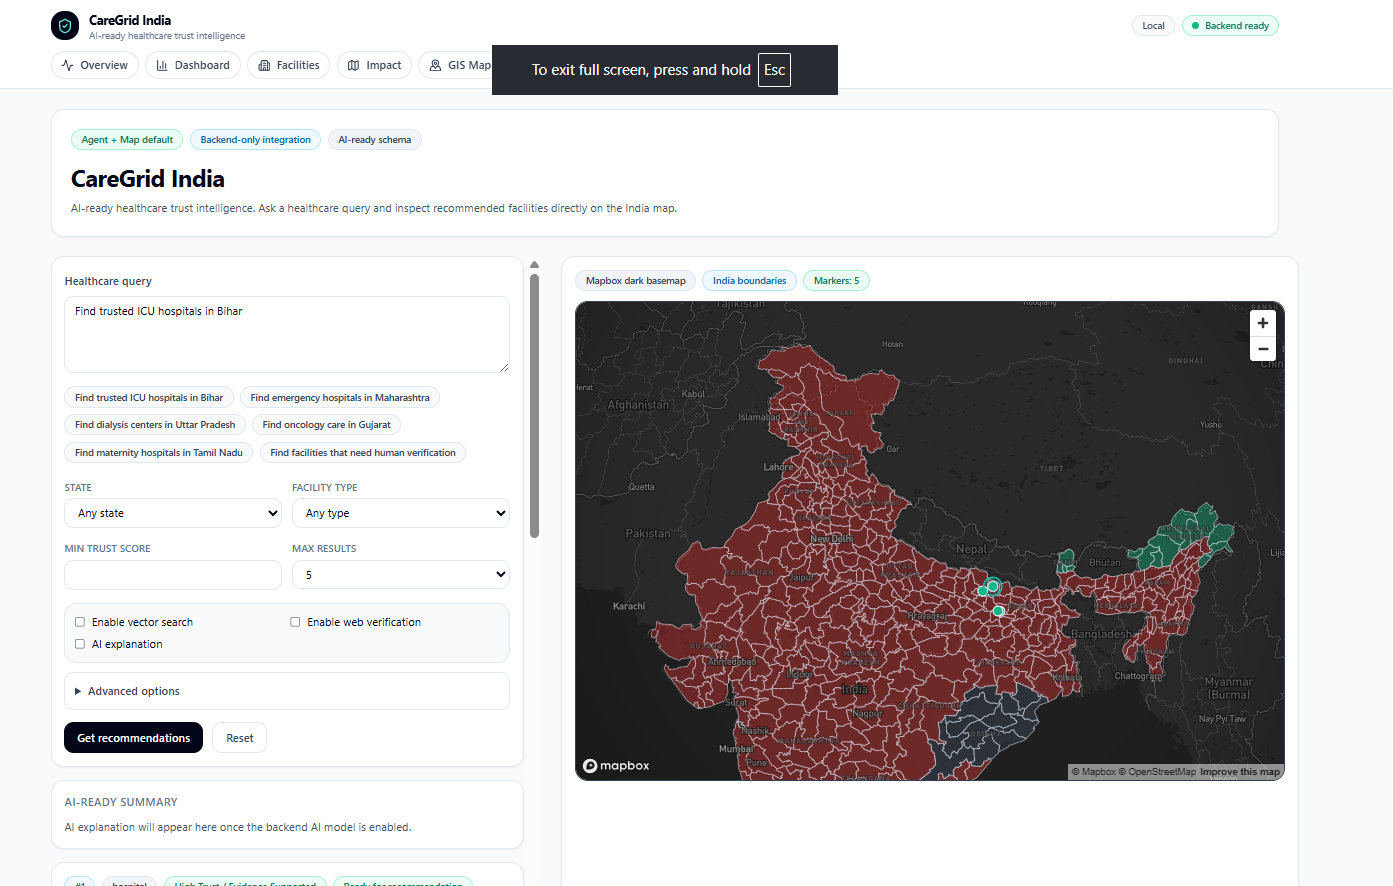
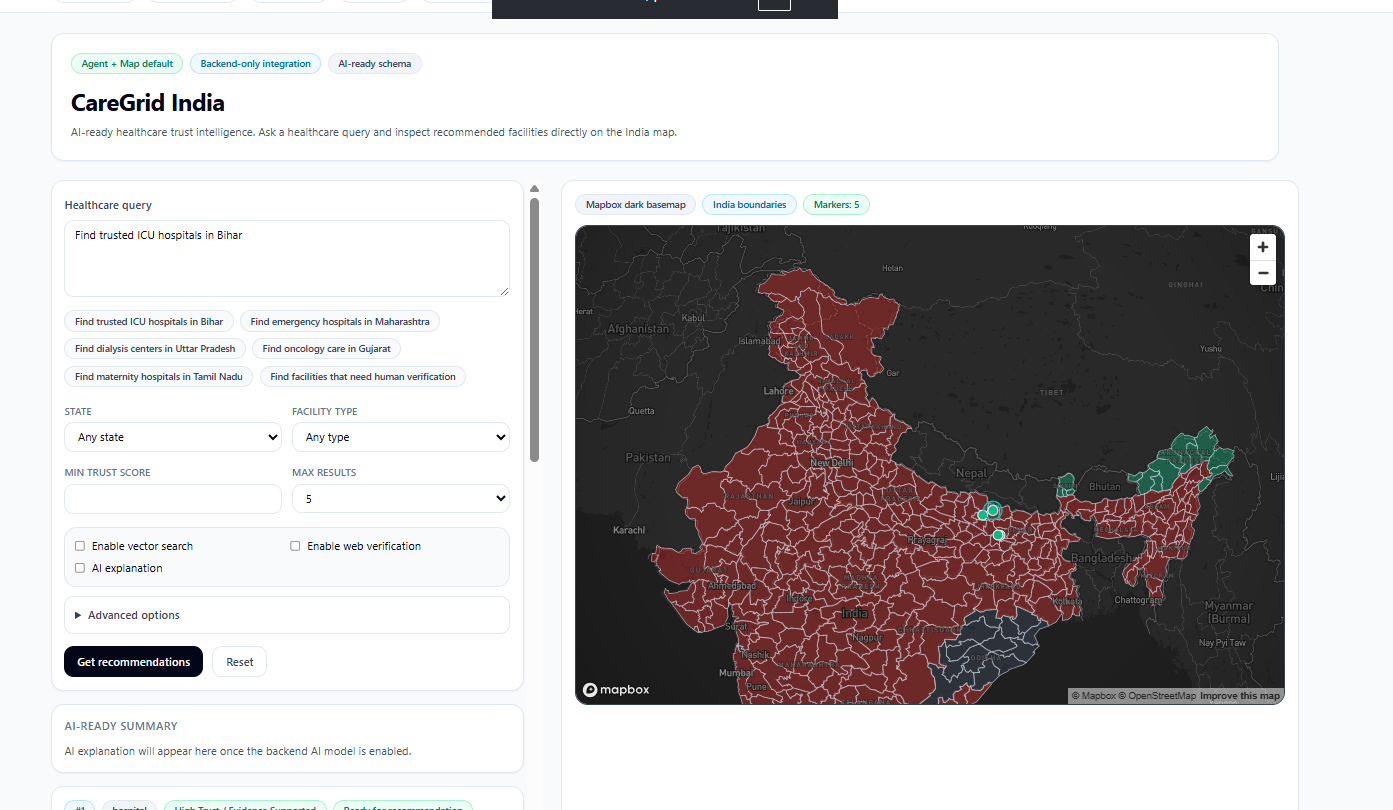
Reorder featured projects and add CareGrid link

diff --git a/data/projects.ts b/data/projects.ts
@@ -246,6 +246,9 @@ export const projects: ProjectData[] = [
       "Agentic RAG intelligence over 10,000+ verified healthcare facility records across 34 Indian states. Shipped in 21 hours and placed 6th globally.",
     tech: ["FASTAPI", "REACT", "RAG PIPELINE", "POSTGIS", "MAPBOX"],
     miniMap: "Scattered health facility pattern",
+    links: {
+      live: "https://caregrid-frontend.vercel.app",
+    },
     team: "Built with Team GridForce. Placed 6th globally.",
     caseStudy: {
       heroImage: "/images/projects/caregrid/hero.png",
@@ -260,13 +263,15 @@ export const projects: ProjectData[] = [
   },
 ];
 
-const featuredProjectSlugs = new Set([
+const featuredProjectSlugs = [
   "hazardmind",
+  "caregrid",
   "routeiq",
   "ipws",
   "micro-flood-predictor",
   "solarvision-ai",
-  "caregrid",
-]);
+] as const;
 
-export const featuredProjects = projects.filter((project) => featuredProjectSlugs.has(project.slug));
+export const featuredProjects = featuredProjectSlugs
+  .map((slug) => projects.find((project) => project.slug === slug))
+  .filter((project): project is ProjectData => Boolean(project));
